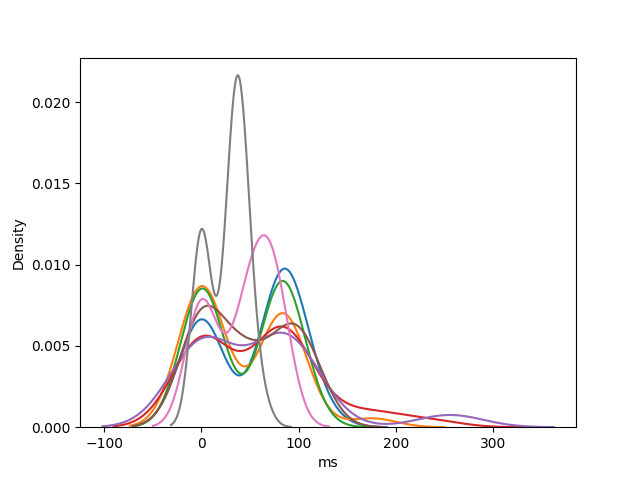
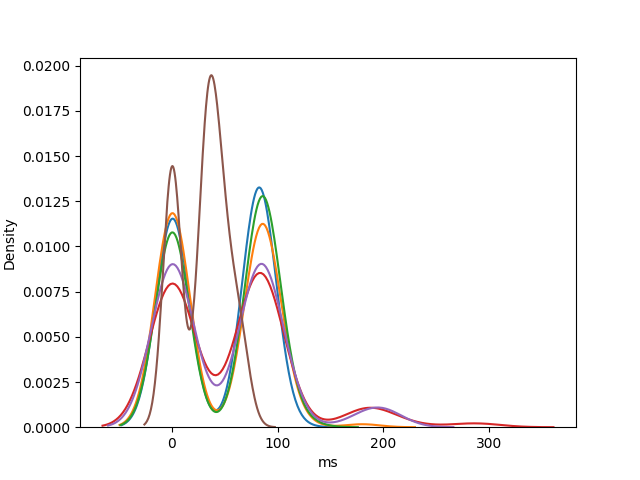
more data

diff --git a/plots/README.md b/plots/README.md
@@ -9,13 +9,13 @@
 
 | Key         | Value                        |
 | ----------- | ---------------------------- |
-| Completions | 25  |
-| Mean        | 44ms |
-| STD         | 43ms  |
+| Completions | 117  |
+| Mean        | 45ms |
+| STD         | 41ms  |
 | Q0          | 0ms   |
 | Q50         | 81ms  |
-| Q95         | 87ms  |
-| Q100        | 103ms |
+| Q95         | 85ms  |
+| Q100        | 109ms |
 
 ![fig.img](https://raw.githubusercontent.com/ms-jpq/vim.bench/main/plots/c6426ab57e802fa08dcffe99fbfeac14.png)
 
@@ -28,13 +28,13 @@
 
 | Key         | Value                        |
 | ----------- | ---------------------------- |
-| Completions | 23  |
-| Mean        | 53ms |
+| Completions | 136  |
+| Mean        | 49ms |
 | STD         | 44ms  |
 | Q0          | 0ms   |
 | Q50         | 82ms  |
-| Q95         | 90ms  |
-| Q100        | 120ms |
+| Q95         | 97ms  |
+| Q100        | 127ms |
 
 ![fig.img](https://raw.githubusercontent.com/ms-jpq/vim.bench/main/plots/78cc3e419d8cc2f802e43d486be1fb4f.png)
 
@@ -47,13 +47,13 @@
 
 | Key         | Value                        |
 | ----------- | ---------------------------- |
-| Completions | 30  |
-| Mean        | 42ms |
-| STD         | 48ms  |
+| Completions | 146  |
+| Mean        | 45ms |
+| STD         | 45ms  |
 | Q0          | 0ms   |
-| Q50         | 2ms  |
-| Q95         | 92ms  |
-| Q100        | 176ms |
+| Q50         | 80ms  |
+| Q95         | 97ms  |
+| Q100        | 180ms |
 
 ![fig.img](https://raw.githubusercontent.com/ms-jpq/vim.bench/main/plots/58dd12a5c42471f3e2e23eec0c8f0800.png)
 
@@ -66,13 +66,13 @@
 
 | Key         | Value                        |
 | ----------- | ---------------------------- |
-| Completions | 35  |
-| Mean        | 61ms |
-| STD         | 62ms  |
+| Completions | 160  |
+| Mean        | 57ms |
+| STD         | 61ms  |
 | Q0          | 0ms   |
 | Q50         | 81ms  |
-| Q95         | 171ms  |
-| Q100        | 237ms |
+| Q95         | 182ms  |
+| Q100        | 295ms |
 
 ![fig.img](https://raw.githubusercontent.com/ms-jpq/vim.bench/main/plots/bc190c7ef28b48a0f7c19b0b8622951d.png)
 
@@ -85,13 +85,13 @@
 
 | Key         | Value                        |
 | ----------- | ---------------------------- |
-| Completions | 31  |
-| Mean        | 60ms |
-| STD         | 68ms  |
+| Completions | 147  |
+| Mean        | 53ms |
+| STD         | 55ms  |
 | Q0          | 0ms   |
 | Q50         | 81ms  |
-| Q95         | 114ms  |
-| Q100        | 260ms |
+| Q95         | 181ms  |
+| Q100        | 206ms |
 
 ![fig.img](https://raw.githubusercontent.com/ms-jpq/vim.bench/main/plots/21b9d82fd3a81ea3309e1d5ea8b54945.png)
 
@@ -104,13 +104,13 @@
 
 | Key         | Value                        |
 | ----------- | ---------------------------- |
-| Completions | 22  |
-| Mean        | 27ms |
-| STD         | 20ms  |
+| Completions | 104  |
+| Mean        | 30ms |
+| STD         | 22ms  |
 | Q0          | 0ms   |
 | Q50         | 33ms  |
-| Q95         | 46ms  |
-| Q100        | 60ms |
+| Q95         | 65ms  |
+| Q100        | 71ms |
 
 ![fig.img](https://raw.githubusercontent.com/ms-jpq/vim.bench/main/plots/b5a0628258631a855e2b954dce9d61b7.png)
 
@@ -123,13 +123,13 @@
 
 | Key         | Value                        |
 | ----------- | ---------------------------- |
-| Completions | 23  |
-| Mean        | 47ms |
-| STD         | 44ms  |
+| Completions | 132  |
+| Mean        | 48ms |
+| STD         | 45ms  |
 | Q0          | 0ms   |
-| Q50         | 42ms  |
-| Q95         | 106ms  |
-| Q100        | 115ms |
+| Q50         | 45ms  |
+| Q95         | 111ms  |
+| Q100        | 143ms |
 
 ![fig.img](https://raw.githubusercontent.com/ms-jpq/vim.bench/main/plots/ad82d296990a5c5c2557f2e7af158e63.png)
 
@@ -142,13 +142,13 @@
 
 | Key         | Value                        |
 | ----------- | ---------------------------- |
-| Completions | 25  |
-| Mean        | 42ms |
-| STD         | 32ms  |
+| Completions | 144  |
+| Mean        | 46ms |
+| STD         | 44ms  |
 | Q0          | 0ms   |
-| Q50         | 53ms  |
-| Q95         | 80ms  |
-| Q100        | 81ms |
+| Q50         | 45ms  |
+| Q95         | 112ms  |
+| Q100        | 131ms |
 
 ![fig.img](https://raw.githubusercontent.com/ms-jpq/vim.bench/main/plots/675da12f4bded28a8a71ca93d7911b30.png)
 
@@ -161,13 +161,13 @@
 
 | Key         | Value                        |
 | ----------- | ---------------------------- |
-| Completions | 29  |
-| Mean        | 63ms |
-| STD         | 67ms  |
+| Completions | 144  |
+| Mean        | 57ms |
+| STD         | 51ms  |
 | Q0          | 0ms   |
-| Q50         | 62ms  |
-| Q95         | 142ms  |
-| Q100        | 295ms |
+| Q50         | 67ms  |
+| Q95         | 132ms  |
+| Q100        | 209ms |
 
 ![fig.img](https://raw.githubusercontent.com/ms-jpq/vim.bench/main/plots/77d454f58a6c11696a39a2b4a31ad13f.png)
 
@@ -180,13 +180,13 @@
 
 | Key         | Value                        |
 | ----------- | ---------------------------- |
-| Completions | 30  |
-| Mean        | 64ms |
-| STD         | 75ms  |
+| Completions | 137  |
+| Mean        | 52ms |
+| STD         | 50ms  |
 | Q0          | 0ms   |
-| Q50         | 48ms  |
-| Q95         | 218ms  |
-| Q100        | 301ms |
+| Q50         | 49ms  |
+| Q95         | 137ms  |
+| Q100        | 203ms |
 
 ![fig.img](https://raw.githubusercontent.com/ms-jpq/vim.bench/main/plots/3b523c9b210a67f020683294edb06b04.png)
 
